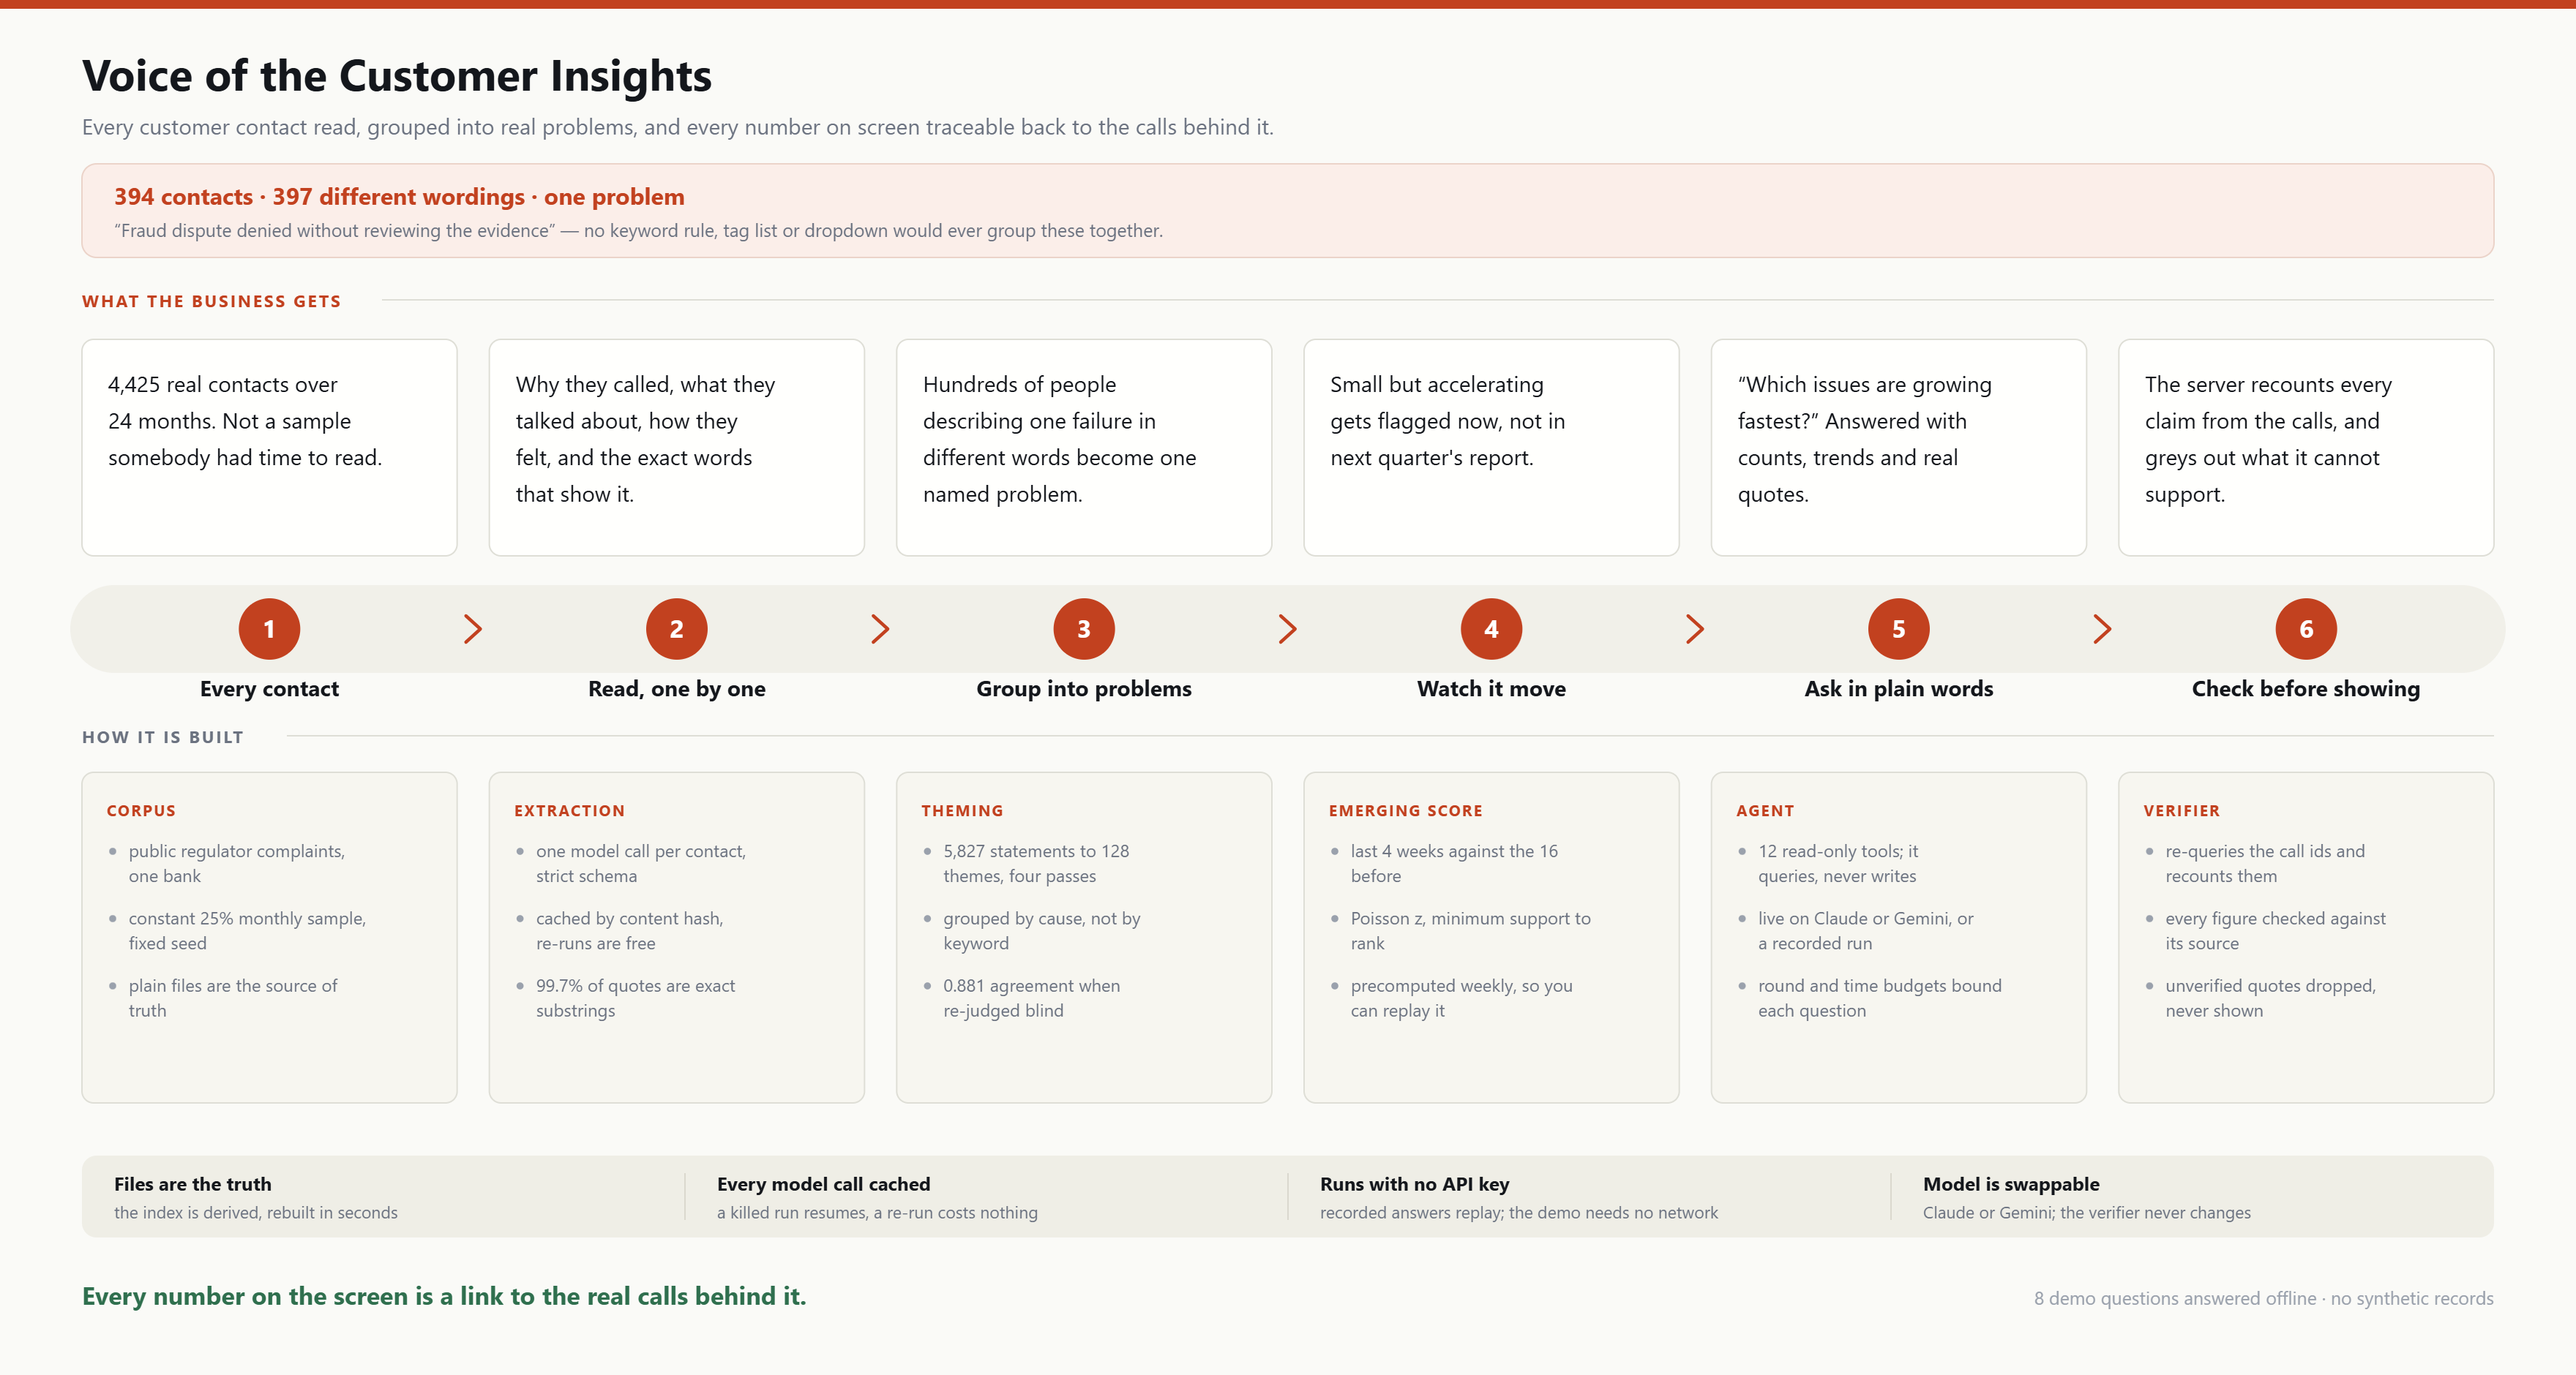
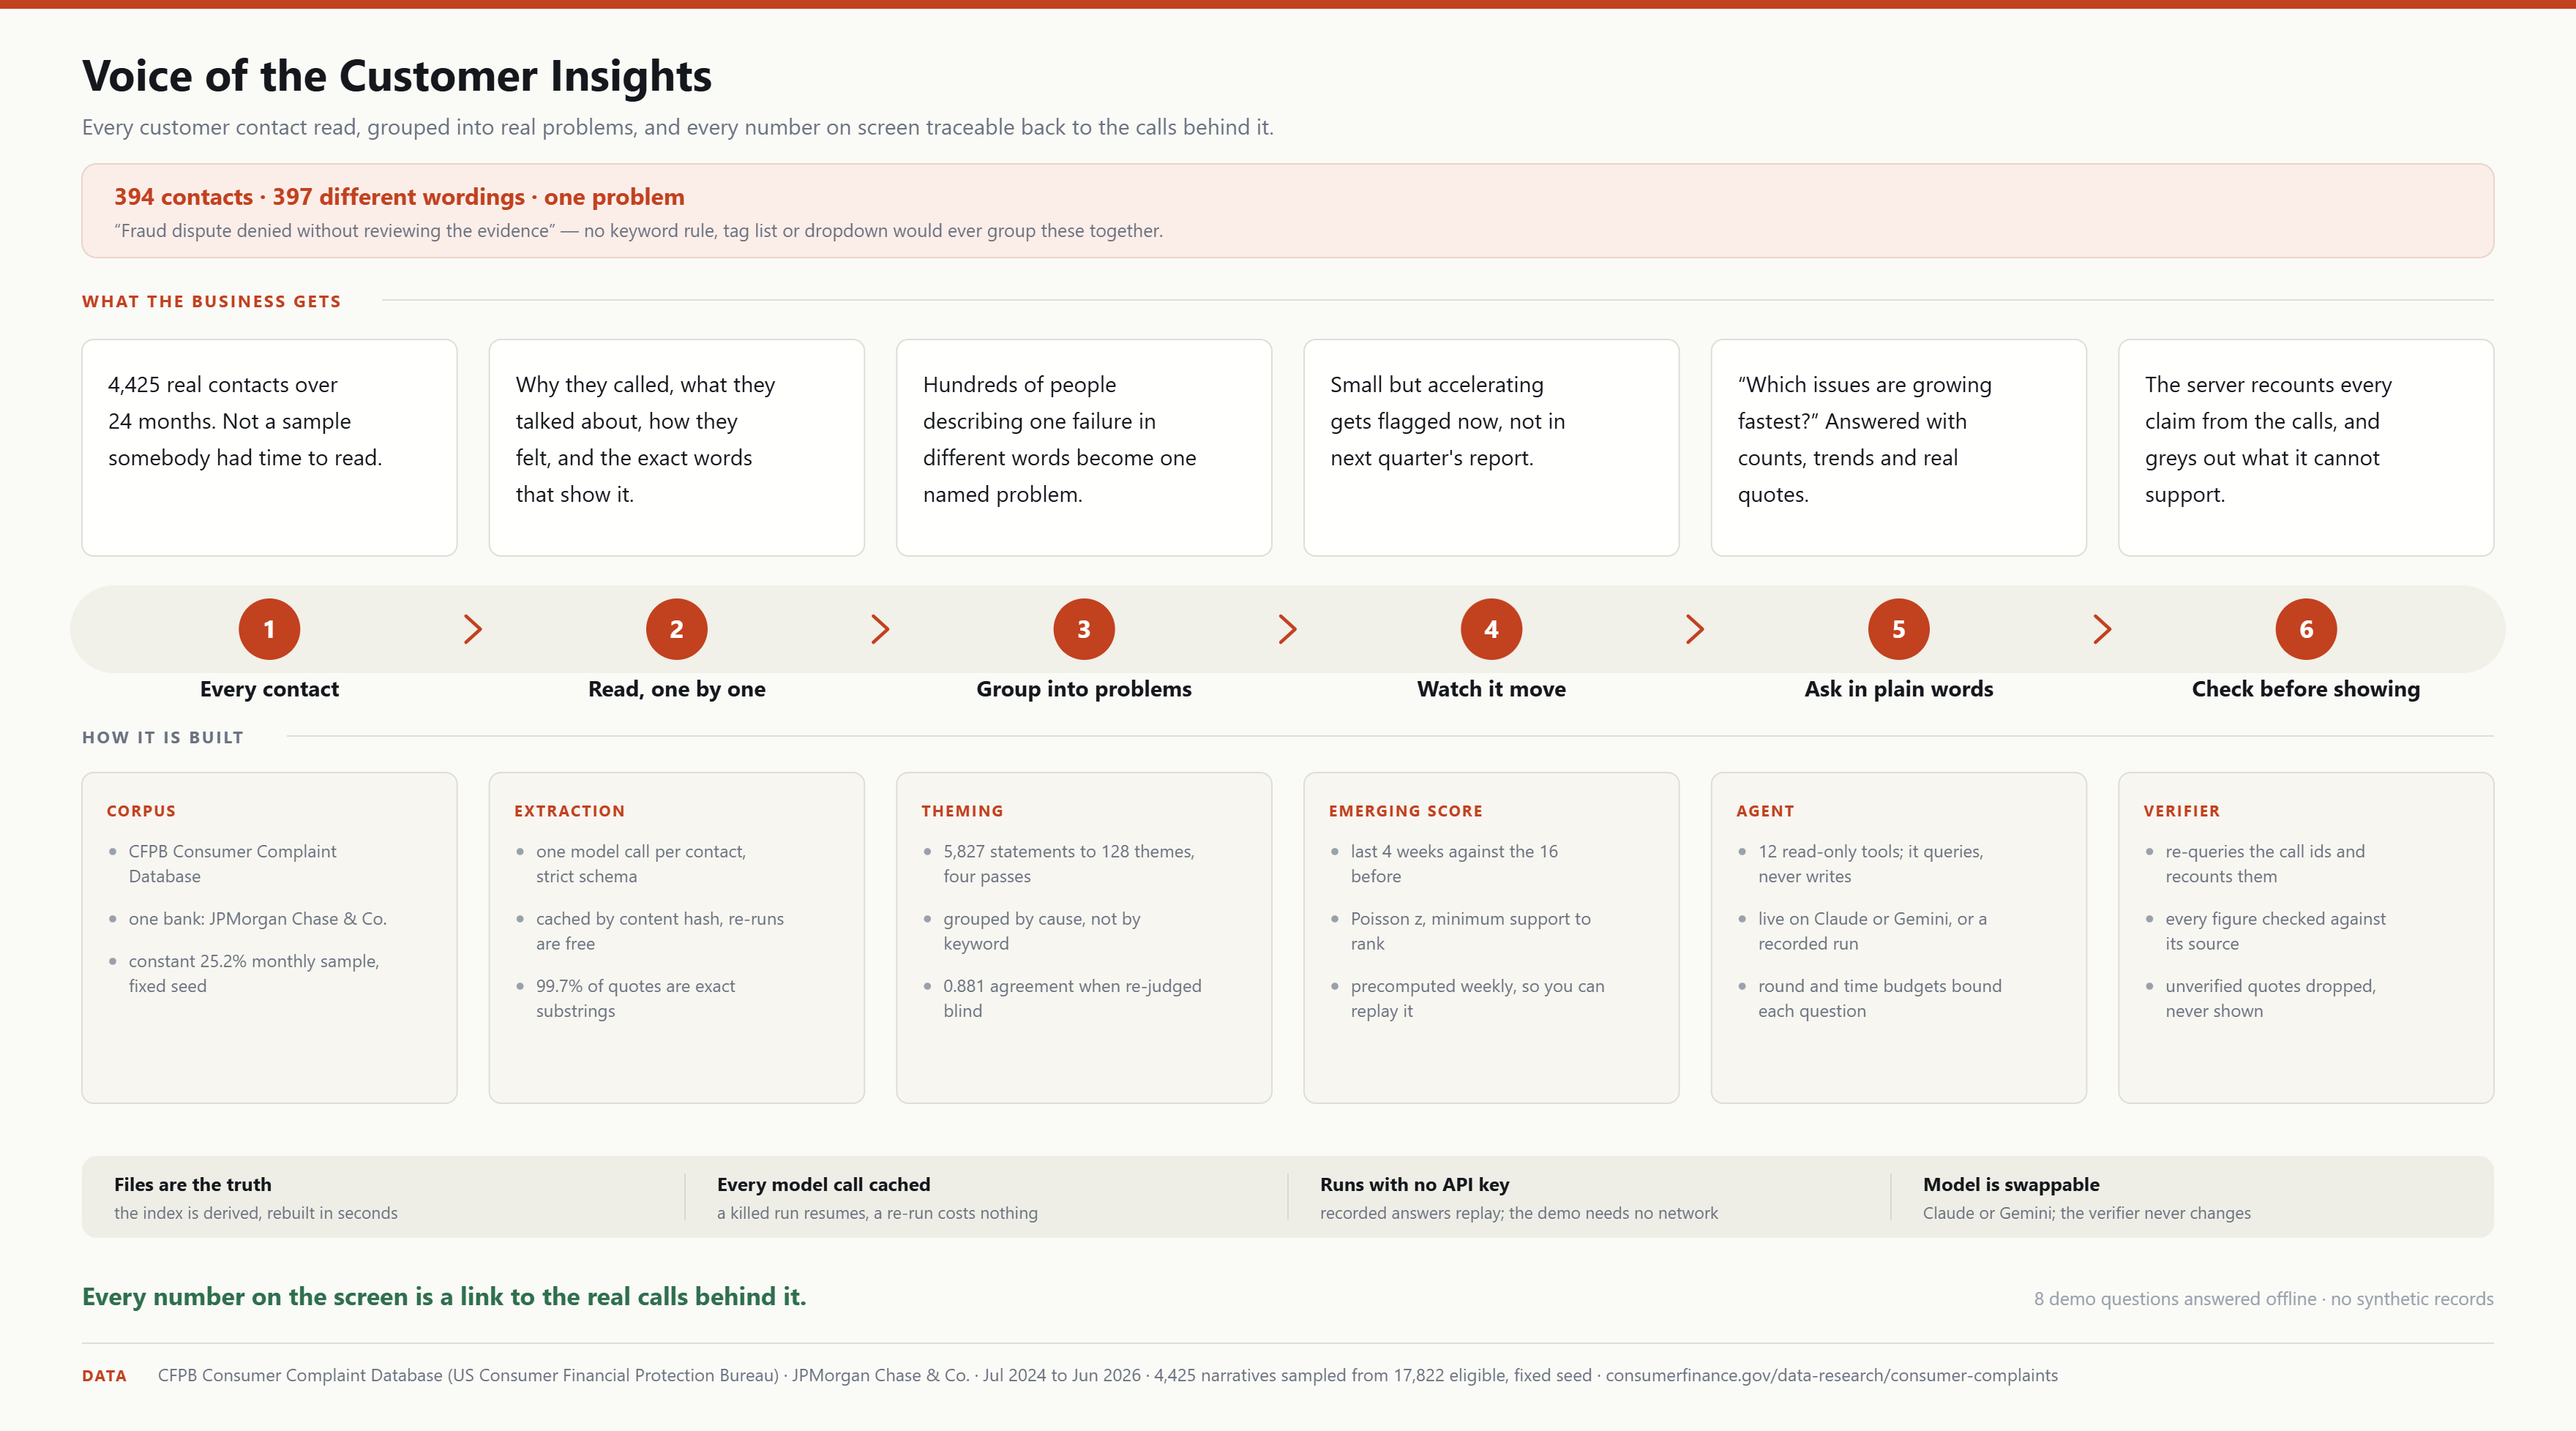
Name the dataset and the company on the diagram
A bank audience asks where the data came from before anything else, and the
drawing did not say. It now carries a DATA line naming the source database, the
regulator that publishes it, the single company, the window, how many narratives
were sampled from how many eligible, and the URL. The corpus card names the
database and the bank too.

Every value is read from the index and the ingest profile rather than typed, and
the regulator's all-capitals company names get a display spelling so title case
does not render "Jpmorgan".

diff --git a/docs/make_diagram.py b/docs/make_diagram.py
@@ -18,7 +18,12 @@ from xml.sax.saxutils import escape
 
 ROOT = Path(__file__).resolve().parent.parent
 
-W, H = 1760, 940
+W, H = 1760, 978
+
+# The dataset, named on the drawing. A bank audience asks this first.
+SOURCE_NAME = "CFPB Consumer Complaint Database"
+SOURCE_OWNER = "US Consumer Financial Protection Bureau"
+SOURCE_URL = "consumerfinance.gov/data-research/consumer-complaints"
 MARGIN = 56
 INK = "#14171C"
 PAPER = "#FAFAF7"
@@ -35,6 +40,20 @@ MONO = "'Cascadia Mono',Consolas,'SF Mono',monospace"
 
 # --- numbers, read from the index --------------------------------------------------------------
 
+# The regulator stores company names in capitals. Title case mangles them ("Jpmorgan"), so the
+# known ones are spelled out and anything else falls back to title case.
+COMPANY_DISPLAY = {"JPMORGAN CHASE & CO.": "JPMorgan Chase & Co."}
+
+
+def display_company(raw: str) -> str:
+    return COMPANY_DISPLAY.get(raw.strip().upper(), raw.title())
+
+
+def _month_name(iso: str) -> str:
+    y, m, _ = iso.split("-")
+    return f"{['Jan','Feb','Mar','Apr','May','Jun','Jul','Aug','Sep','Oct','Nov','Dec'][int(m) - 1]} {y}"
+
+
 def facts() -> dict:
     meta = json.loads((ROOT / "data/meta.json").read_text(encoding="utf-8"))
     con = sqlite3.connect(ROOT / "data/voc.sqlite")
@@ -45,13 +64,19 @@ def facts() -> dict:
     head = con.execute(
         "SELECT name, n_calls, n_wordings FROM themes WHERE status='active' ORDER BY n_calls DESC LIMIT 1"
     ).fetchone()
+    lo, hi = con.execute("SELECT MIN(date), MAX(date) FROM calls").fetchone()
+    profile = json.loads((ROOT / "data/profile.json").read_text(encoding="utf-8"))
     from voc.agent.tools import READ_TOOLS
     return {
         "calls": meta["n_calls"],
         "statements": meta["n_members"],
         "themes": one("SELECT COUNT(*) FROM themes WHERE status='active'"),
         "quote_rate": meta["qa_quote_verify_rate"],
-        "months": meta["months"] if "months" in meta else 24,
+        "months": one("SELECT COUNT(DISTINCT month) FROM calls"),
+        "company": display_company(meta["company"]),
+        "window": f"{_month_name(lo)} to {_month_name(hi)}",
+        "eligible": profile["n_eligible"],
+        "fraction": profile["sampling_fraction"],
         "head_name": head[0], "head_calls": head[1], "head_wordings": head[2],
         "n_tools": len(READ_TOOLS),
         "answers": one("SELECT COUNT(*) FROM answers_cache"),
@@ -124,9 +149,9 @@ def build(f: dict, out: Path) -> Path:
          "lead": f"{f['calls']:,} real contacts over {f['months']} months. Not a sample somebody "
                  f"had time to read.",
          "tech_title": "Corpus",
-         "tech": ["public regulator complaints, one bank",
-                  "constant 25% monthly sample, fixed seed",
-                  "plain files are the source of truth"]},
+         "tech": [f"{SOURCE_NAME}",
+                  f"one bank: {f['company']}",
+                  f"constant {f['fraction'] * 100:.1f}% monthly sample, fixed seed"]},
         {"n": "2", "title": "Read, one by one",
          "lead": "Why they called, what they talked about, how they felt, and the exact words that "
                  "show it.",
@@ -214,7 +239,7 @@ def build(f: dict, out: Path) -> Path:
         y = below_top + 58
         for bullet in st["tech"]:
             p.append(f'<circle cx="{x + 21}" cy="{y - 4}" r="2.4" fill="{FAINT}"/>')
-            block = wrapped(x + 32, y, bullet, width_chars=29, size=12, fill=MUTED, leading=17)
+            block = wrapped(x + 32, y, bullet, width_chars=31, size=12, fill=MUTED, leading=17)
             p.append(block)
             y += 17 * (len(block.split("<text")) - 1) + 12
 
@@ -240,6 +265,14 @@ def build(f: dict, out: Path) -> Path:
                   size=17, weight="700", fill=POSITIVE))
     p.append(text(W - MARGIN, 892, f"{f['answers']} demo questions answered offline  ·  "
                                    f"no synthetic records", size=12.5, fill=FAINT, anchor="end"))
+
+    # --- the dataset, named plainly; a bank audience asks this before anything else
+    p.append(line(MARGIN, 918, W - MARGIN, 918, stroke=RULE))
+    p.append(text(MARGIN, 944, "DATA", size=10.5, weight="700", fill=ACCENT, spacing="1.1"))
+    p.append(text(MARGIN + 52, 944,
+                  f"{SOURCE_NAME} ({SOURCE_OWNER})  ·  {f['company']}  ·  {f['window']}  ·  "
+                  f"{f['calls']:,} narratives sampled from {f['eligible']:,} eligible, "
+                  f"fixed seed  ·  {SOURCE_URL}", size=12, fill=MUTED))
 
     p.append("</svg>")
     out.parent.mkdir(parents=True, exist_ok=True)
